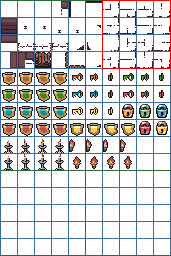
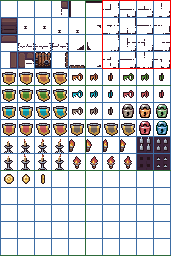
Added treasure. Modified inventory to hold treasure.

diff --git a/LuckNGold/World/Monsters/Components/InventoryComponent.cs b/LuckNGold/World/Monsters/Components/InventoryComponent.cs
@@ -14,10 +14,20 @@ internal class InventoryComponent(int capacity)
 {
     public event EventHandler<InventoryEventArgs>? ItemAdded;
     public event EventHandler<InventoryEventArgs>? ItemRemoved;
+    public event EventHandler<InventoryEventArgs>? TreasureAdded;
+    public event EventHandler<InventoryEventArgs>? TreasureRemoved;
 
+    /// <inheritdoc/>
     public int Capacity { get; } = capacity;
 
+    /// <inheritdoc/>
+    public int Value { get; private set; }
+
+    /// <inheritdoc/>
     public List<RogueLikeEntity> Items { get; } = new(capacity);
+
+    /// <inheritdoc/>
+    public List<RogueLikeEntity> Treasure { get; } = [];
 
     /// <summary>
     /// Drops the given item from this inventory.
@@ -96,33 +106,52 @@ internal class InventoryComponent(int capacity)
         return true;
     }
 
-    /// <summary>
-    /// Adds an item to the inventory contents.
-    /// </summary>
-    /// <param name="item">Item to be added.</param>
-    /// <returns>True if success, false otherwise.</returns>
-    public bool Add(RogueLikeEntity item)
+    /// <inheritdoc/>
+    public bool Add(RogueLikeEntity entity)
     {
-        if (Items.Count >= Capacity || Items.Contains(item))
-            return false;
+        // Check item is a treasure
+        if (entity.AllComponents.Contains<ITreasure>())
+        {
+            if (Treasure.Contains(entity))
+                throw new InvalidOperationException("Trying to add a treasure which is already " +
+                    "in the inventory");
 
-        Items.Add(item);
-        OnItemAdded(item);
-        return true;
+            Treasure.Add(entity);
+            OnTreasureAdded(entity);
+            return true;
+        }
+
+        // Regular item
+        else
+        {
+            if (Items.Count >= Capacity)
+                return false;
+
+            if (Items.Contains(entity))
+                throw new InvalidOperationException("Trying to add an item which is already " +
+                    "in the inventory");
+
+            Items.Add(entity);
+            OnItemAdded(entity);
+            return true;
+        }
+        
     }
 
-    /// <summary>
-    /// Removes an item from the inventory contents.
-    /// </summary>
-    /// <param name="item">Item to be removed.</param>
-    /// <returns>True if success, false otherwise.</returns>
-    public bool Remove(RogueLikeEntity item)
+    /// <inheritdoc/>
+    public bool Remove(RogueLikeEntity entity)
     {
-        if (!Items.Contains(item))
-            return false;
-        Items.Remove(item);
-        OnItemRemoved(item);
-        return true;
+        if (Items.Remove(entity))
+        {
+            OnItemRemoved(entity);
+            return true;
+        }
+        else if (Treasure.Remove(entity))
+        {
+            OnTreasureRemoved(entity);
+            return true;
+        }
+        return false;
     }
 
     void OnItemAdded(RogueLikeEntity item)
@@ -135,5 +164,19 @@ internal class InventoryComponent(int capacity)
     {
         var args = new InventoryEventArgs(item);
         ItemRemoved?.Invoke(this, args);
+    }
+
+    void OnTreasureAdded(RogueLikeEntity treasure)
+    {
+        Value += treasure.AllComponents.GetFirst<ITreasure>().Value;
+        var args = new InventoryEventArgs(treasure);
+        TreasureAdded?.Invoke(this, args);
+    }
+
+    void OnTreasureRemoved(RogueLikeEntity treasure)
+    {
+        Value -= treasure.AllComponents.GetFirst<ITreasure>().Value;
+        var args = new InventoryEventArgs(treasure);
+        TreasureRemoved?.Invoke(this, args);
     }
 }

diff --git a/LuckNGold/World/Monsters/Interfaces/IInventory.cs b/LuckNGold/World/Monsters/Interfaces/IInventory.cs
@@ -1,14 +1,44 @@
-using SadRogue.Integration;
+using LuckNGold.World.Items.Interfaces;
+using SadRogue.Integration;
 
 namespace LuckNGold.World.Monsters.Interfaces;
 
 /// <summary>
-/// Interface for components that can be treated as inventory to store items.
+/// It can store entities with <see cref="ICarryable"/> component.
 /// </summary>
 internal interface IInventory
 {
+    /// <summary>
+    /// Maximum amount of entities that can be added to <see cref="Items"/>.
+    /// </summary>
     int Capacity { get; }
+
+    /// <summary>
+    /// List of all entities with <see cref="ICarryable"/> component held in the inventory.
+    /// </summary>
     List<RogueLikeEntity> Items { get; }
+
+    /// <summary>
+    /// Monetary value of all entities with <see cref="ITreasure"/> held in the inventory.
+    /// </summary>
+    int Value { get; }
+
+    /// <summary>
+    /// List of all entities with <see cref="ITreasure"/> component held in the inventory.
+    /// </summary>
+    List<RogueLikeEntity> Treasure { get; }
+
+    /// <summary>
+    /// Removes an entity with <see cref="ICarryable"/> from the inventory.
+    /// </summary>
+    /// <param name="item">Entity with <see cref="ICarryable"/> being removed.</param>
+    /// <returns>True if the entity was removed from the inventory, false otherwise.</returns>
     bool Remove(RogueLikeEntity item);
+
+    /// <summary>
+    /// Adds an entity with <see cref="ICarryable"/> to the contents of the inventory.
+    /// </summary>
+    /// <param name="item">Entity with <see cref="ICarryable"/> being added.</param>
+    /// <returns>True if entity was added to the inventory, false otherwise.</returns>
     bool Add(RogueLikeEntity item);
 }

diff --git a/LuckNGold/Visuals/Screens/GameScreen.cs b/LuckNGold/Visuals/Screens/GameScreen.cs
@@ -67,18 +67,18 @@ internal class GameScreen : ScreenObject
         SadComponents.Add(_keybindingsComponent);
 
         // Add sample decor
-        var flag = DecorFactory.Flag(Crystal.Bronzite);
+        var flag = DecorFactory.Flag(Gemstone.Onyx);
         flag.Position = (Player.Position.X, firstRoom.Area.Y - 1);
         Map.AddEntity(flag);
 
         // Add sample keys
-        var key = ItemFactory.Key(Crystal.Bronzite);
+        var key = ItemFactory.Key(Gemstone.Onyx);
         key.Position = (Player.Position.X, Player.Position.Y - 1);
         Map.AddEntity(key);
-        key = ItemFactory.Key(Crystal.Ruby);
+        key = ItemFactory.Key(Gemstone.Ruby);
         key.Position = (Player.Position.X + 1, Player.Position.Y - 1);
         Map.AddEntity(key);
-        key = ItemFactory.Key(Crystal.Emerald);
+        key = ItemFactory.Key(Gemstone.Emerald);
         key.Position = (Player.Position.X - 1, Player.Position.Y - 1);
         Map.AddEntity(key);
 
@@ -98,6 +98,11 @@ internal class GameScreen : ScreenObject
         torch = DecorFactory.Torch();
         torch.Position = flag.Position + Direction.Left;
         Map.AddEntity(torch);
+
+        // Add sample coin
+        var coin = ItemFactory.Coin();
+        coin.Position = Player.Position + Direction.DownLeft;
+        Map.AddEntity(coin);
 
         // Get an exit from the first room for the sample door
         if (firstRoom.Connections.Find(c => c is Exit) is not Exit exit)

diff --git a/LuckNGold/World/Items/ItemFactory.cs b/LuckNGold/World/Items/ItemFactory.cs
@@ -10,14 +10,24 @@ namespace LuckNGold.World.Items;
 /// </summary>
 static class ItemFactory
 {
-    public static AnimatedRogueLikeEntity Key(Crystal crystal)
+    public static AnimatedRogueLikeEntity Key(Gemstone gemstone)
     {
-        var animation = $"{crystal}Key";
+        var animation = $"{gemstone}Key";
         var key = new AnimatedRogueLikeEntity(animation, true, GameMap.Layer.Items)
         {
-            Name = $"{crystal} Key"
+            Name = $"{gemstone} Key"
         };
-        key.AllComponents.Add(new UnlockingComponent((Quality)crystal));
+        key.AllComponents.Add(new UnlockingComponent((Quality)gemstone));
         return key;
+    }
+
+    public static AnimatedRogueLikeEntity Coin()
+    {
+        var coin = new AnimatedRogueLikeEntity("Coin", false, GameMap.Layer.Items)
+        {
+            Name = "Coin"
+        };
+        coin.AllComponents.Add(new TreasureComponent(TreasureType.Coin, 1));
+        return coin;
     }
 }

diff --git a/LuckNGold/World/Items/Components/TreasureComponent.cs b/LuckNGold/World/Items/Components/TreasureComponent.cs
@@ -1,0 +1,18 @@
+using LuckNGold.World.Items.Enums;
+using LuckNGold.World.Items.Interfaces;
+using SadRogue.Integration;
+using SadRogue.Integration.Components;
+
+namespace LuckNGold.World.Items.Components;
+
+/// <summary>
+/// Component for an entity that has monetary value and can be considered a treasure.
+/// </summary>
+/// <param name="type">Type of <see cref="ITreasure"/> that this component represents.</param>
+/// <param name="value">Monetary value of the entity with this component.</param>
+class TreasureComponent(TreasureType type, int value) : 
+    RogueLikeComponentBase<RogueLikeEntity>(false, false, false, false), ITreasure
+{
+    public int Value { get; } = value;
+    public TreasureType Type { get; } = type;
+}

diff --git a/LuckNGold/Visuals/Components/CustomKeybindingsComponent.cs b/LuckNGold/Visuals/Components/CustomKeybindingsComponent.cs
@@ -12,6 +12,7 @@ namespace LuckNGold.Visuals.Components;
 /// Subclass of the integration library's keybindings component that handles player movement 
 /// and other game world activities.
 /// </summary>
+// TODO some methods don't really belong here. Move them to more appropriate classes.
 internal class CustomKeybindingsComponent : KeybindingsComponent
 {
     readonly GameMap _map;

diff --git a/LuckNGold/World/Items/Interfaces/ICarryable.cs b/LuckNGold/World/Items/Interfaces/ICarryable.cs
@@ -1,9 +1,11 @@
-namespace LuckNGold.World.Items.Interfaces;
+using LuckNGold.World.Monsters.Interfaces;
+
+namespace LuckNGold.World.Items.Interfaces;
 
 /// <summary>
-/// Interface for items that can be picked up.
+/// It can be carried in an <see cref="IInventory"/>.
 /// </summary>
 internal interface ICarryable
-{ 
-
+{
+    
 }

diff --git a/LuckNGold/World/Items/Interfaces/IUnlocker.cs b/LuckNGold/World/Items/Interfaces/IUnlocker.cs
@@ -4,7 +4,7 @@ using LuckNGold.World.Items.Enums;
 namespace LuckNGold.World.Items.Interfaces;
 
 /// <summary>
-/// Interface for components that can unlock entities with <see cref="ILockable"/> components.
+/// It can unlock entities with <see cref="ILockable"/>.
 /// </summary>
 internal interface IUnlocker : IUsable
 {

diff --git a/LuckNGold/World/Decor/DecorFactory.cs b/LuckNGold/World/Decor/DecorFactory.cs
@@ -7,7 +7,7 @@ namespace LuckNGold.World.Decor;
 
 static class DecorFactory
 {
-    public static RogueLikeEntity Flag(Crystal crystal)
+    public static RogueLikeEntity Flag(Gemstone crystal)
     {
         return new AnimatedRogueLikeEntity($"{crystal}Flag", false, GameMap.Layer.Decor)
         {

diff --git a/LuckNGold/World/Items/Interfaces/ITreasure.cs b/LuckNGold/World/Items/Interfaces/ITreasure.cs
@@ -1,0 +1,12 @@
+using LuckNGold.World.Items.Enums;
+
+namespace LuckNGold.World.Items.Interfaces;
+
+/// <summary>
+/// It has intrinsic, monetary value.
+/// </summary>
+internal interface ITreasure : ICarryable
+{
+    int Value { get; }
+    TreasureType Type { get; }
+}

diff --git a/LuckNGold/World/Items/Interfaces/IWearable.cs b/LuckNGold/World/Items/Interfaces/IWearable.cs
@@ -1,6 +1,9 @@
 namespace LuckNGold.World.Items.Interfaces;
 
-internal interface IWearable
+/// <summary>
+/// It can be worn.
+/// </summary>
+internal interface IWearable : ICarryable
 {
     bool PutOn();
     bool TakeOff();

diff --git a/LuckNGold/World/Items/Interfaces/IUsable.cs b/LuckNGold/World/Items/Interfaces/IUsable.cs
@@ -3,7 +3,7 @@
 namespace LuckNGold.World.Items.Interfaces;
 
 /// <summary>
-/// Interface for components that can be used or consumed.
+/// It can be used or consumed.
 /// </summary>
 internal interface IUsable : ICarryable
 {
